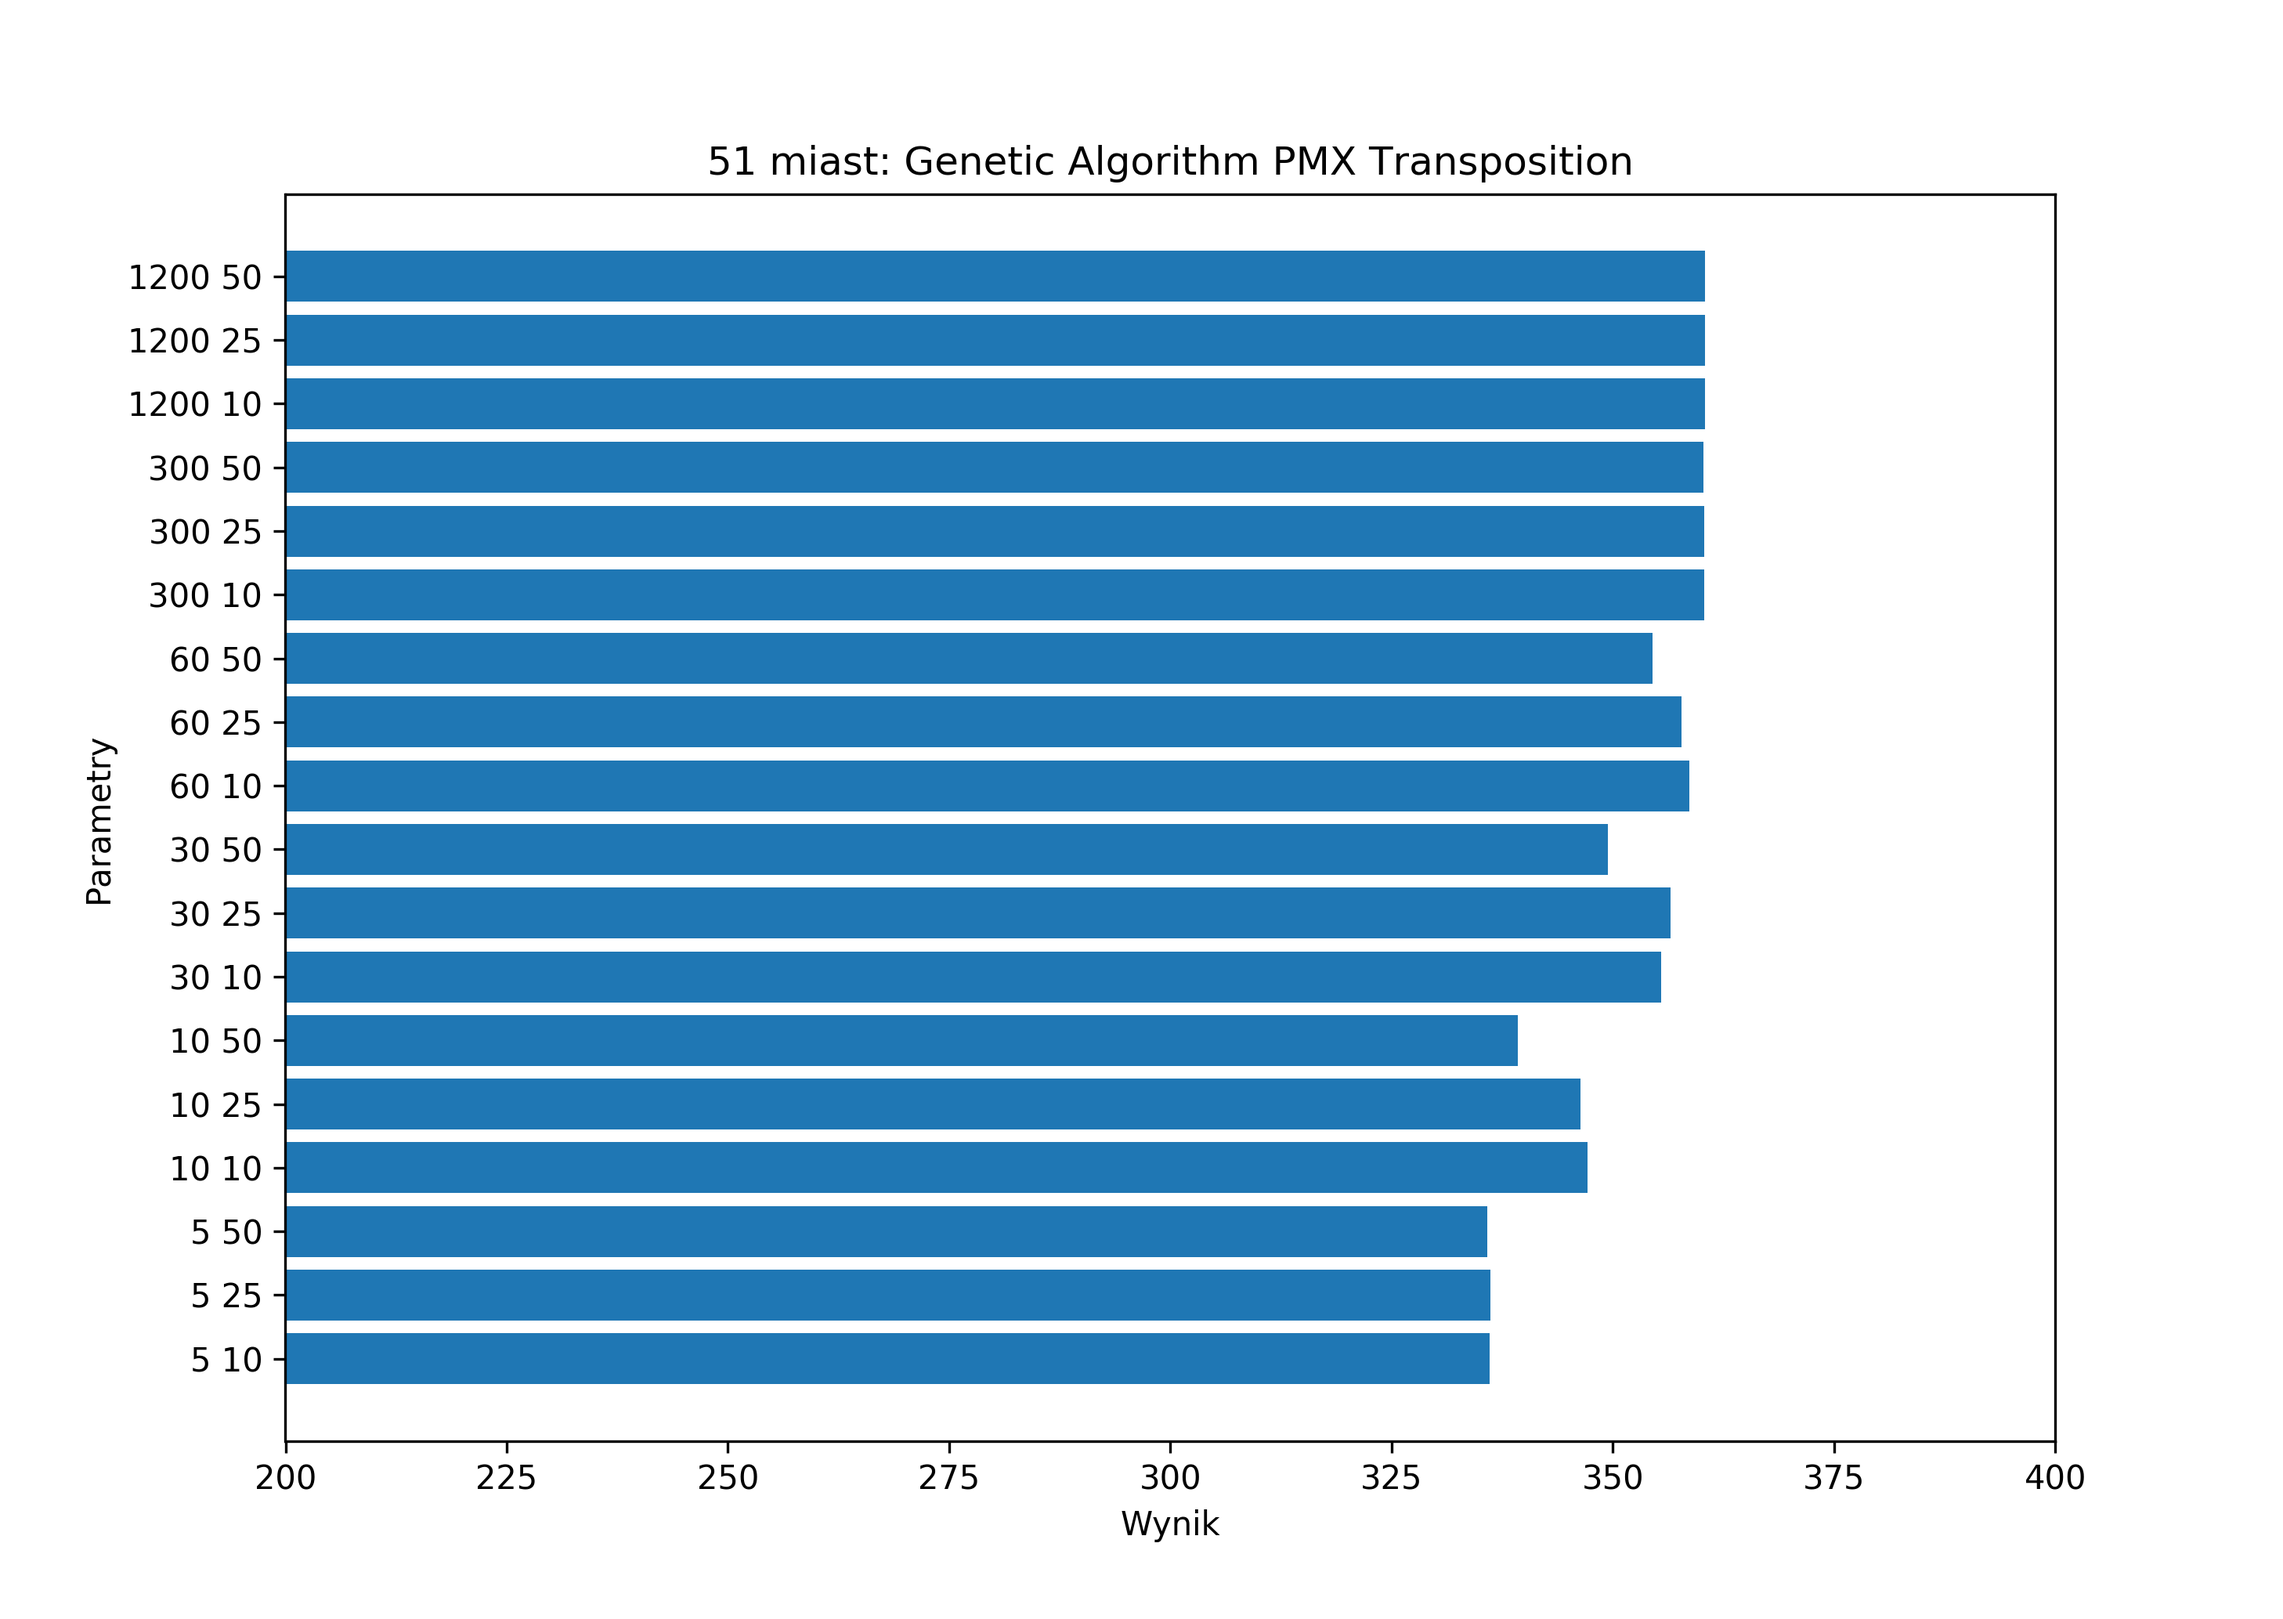
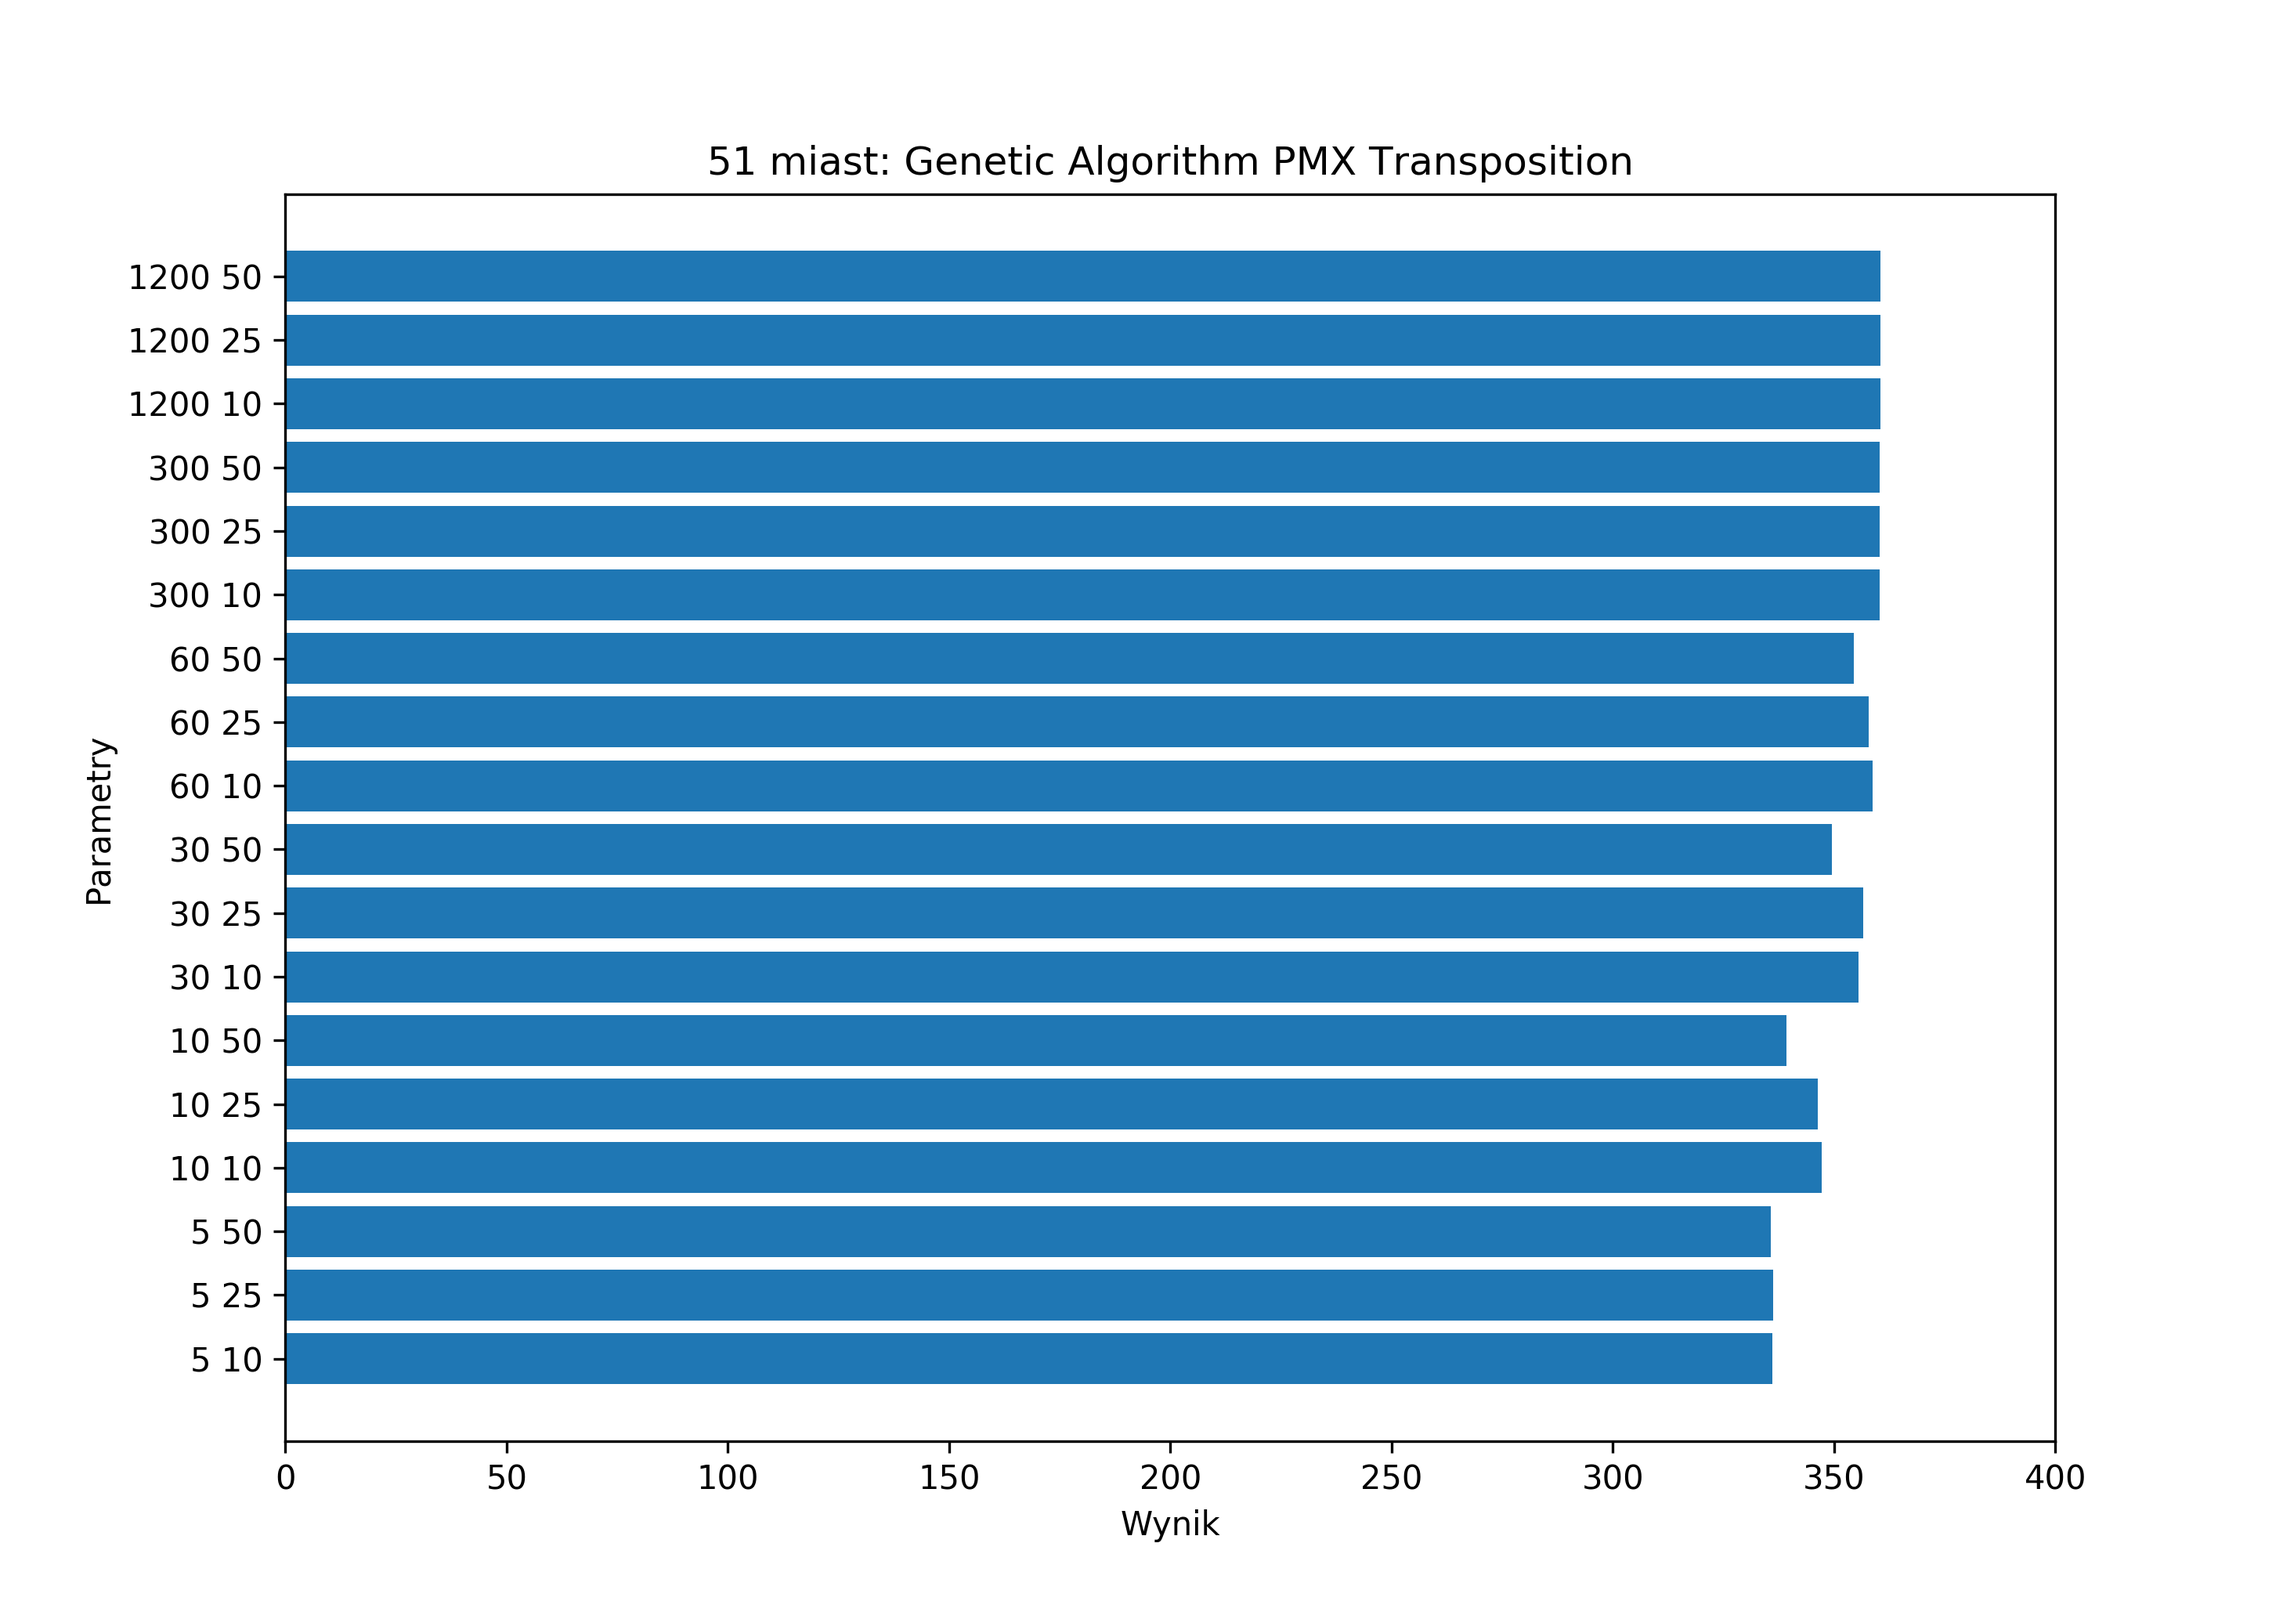
Adding all results

diff --git a/results/results.py b/results/results.py
@@ -35,14 +35,14 @@ def generate_chart(title, filename, rows):
     plt.xlabel('Wynik')
     plt.ylabel('Parametry')
     plt.yticks(index, labels)
-    plt.xlim(200, 400)
+    plt.xlim(0, 400)
     plt.title(title)
 
     plt.savefig(filename)
 
 
 if __name__ == '__main__':
-    for no_of_cities in [51]:
+    for no_of_cities in [25, 51]:
         data = import_data(f'results/{no_of_cities}.csv')
         for chart_name in data:
             generate_chart(
